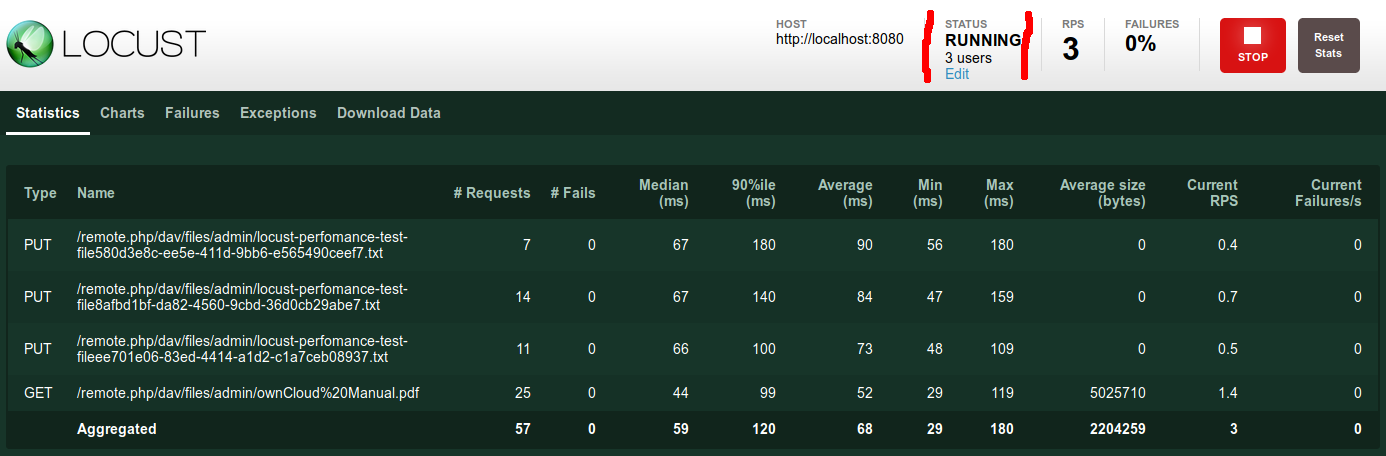
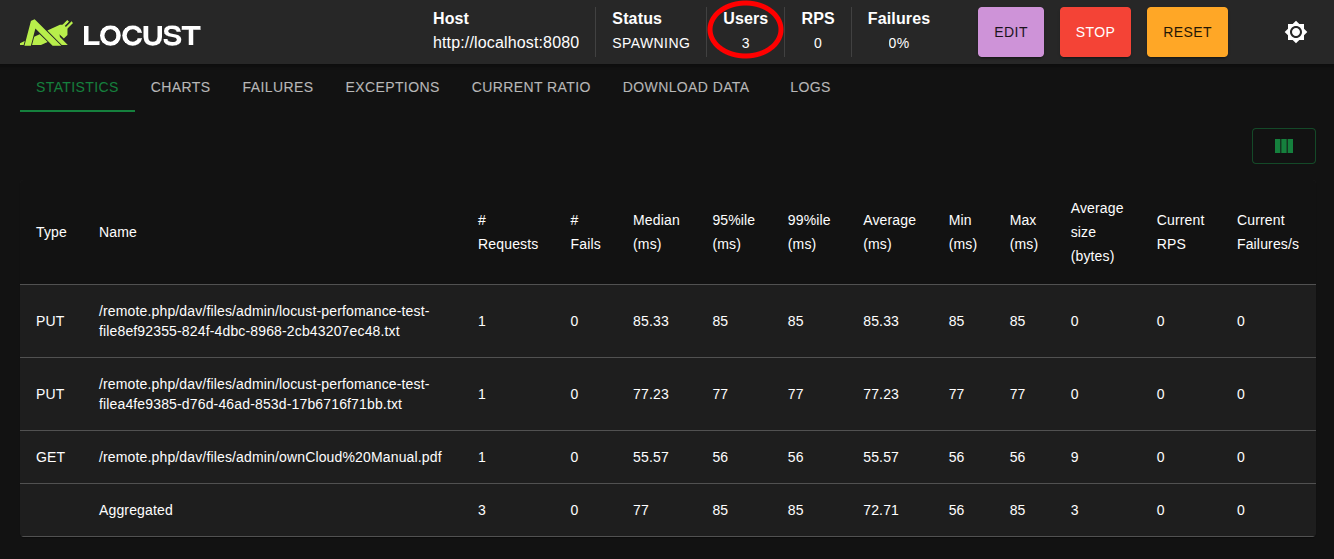
update locust multiple tasks blog (#177)

diff --git a/src/assets/Locust/locust-02.md b/src/assets/Locust/locust-02.md
@@ -24,7 +24,7 @@ You should now be able to run the locust test from the first part via `locust --
 For file-operations, ownCloud uses the [WebDAV](https://en.wikipedia.org/wiki/WebDAV) API. Starting from the locustfile we already have, we create a test for a file download.
 
 ```
-from locust import HttpLocust, TaskSet, task, constant
+from locust import HttpUser, TaskSet, task, constant
 
 class UserBehaviour(TaskSet):
     userName = "admin"
@@ -36,8 +36,8 @@ class UserBehaviour(TaskSet):
             auth=(self.userName, self.userName)
         )
 
-class User(HttpLocust):
-    task_set = UserBehaviour
+class User(HttpUser):
+    tasks = [UserBehaviour]
     wait_time = constant(1)
   ```
 
@@ -51,7 +51,7 @@ Remember: when you change the locustfile, you have to stop and start locust to m
 Every TestSet can have multiple tasks, so adding an upload task should be easy:
 
 ```
-from locust import HttpLocust, TaskSet, task, constant
+from locust import HttpUser, TaskSet, task, constant
 
 class UserBehaviour(TaskSet):
     userName = "admin"
@@ -72,12 +72,12 @@ class UserBehaviour(TaskSet):
             auth=(self.userName, self.userName)
         )
 
-class User(HttpLocust):
-    task_set = UserBehaviour
+class User(HttpUser):
+    tasks = [UserBehaviour]
     wait_time = constant(1)
 ```
 
-Here we have a second task `uploadFile`, it's simply does a `PUT` request with a specific file-name and some data.
+Here we have a second task `uploadFile`, it simply does a `PUT` request with a specific file-name and some data.
 (To be more [DRY](https://en.wikipedia.org/wiki/Don%27t_repeat_yourself), I've placed `davEndpoint` in a variable)
 
 Locust will now run every task the same number of times. But if you run that with enough locust-users (e.g., try 100) you will see the numbers in the `# Fails` column increase
@@ -92,7 +92,7 @@ We have been using one single ownCloud-user `admin` and 100 locust-users. During
 What about not overwriting the same file again and again, but uploading a new one every time?
 
 ```
-from locust import HttpLocust, TaskSet, task, constant
+from locust import HttpUser, TaskSet, task, constant
 import uuid
 
 class UserBehaviour(TaskSet):
@@ -117,8 +117,8 @@ class UserBehaviour(TaskSet):
             auth=(self.userName, self.userName)
         )
 
-class User(HttpLocust):
-    task_set = UserBehaviour
+class User(HttpUser):
+    tasks = [UserBehaviour]
     wait_time = constant(1)
 ```
 
@@ -131,7 +131,7 @@ In the locust UI you should now see one `PUT` request per locust-user and hopefu
 
 Now we run every task equally often. But do users upload files as often as they download them?
 Maybe, but maybe not - it depends on your situation and on what you want to test. Luckily, locust gives you the freedom to choose.
-E.g., if you want to simulate the situation that the download/read operation occurs 3 times more often than an upload/write operation, just add a weight argument to the task
+E.g., if you want to simulate the situation that the download/read operation occurs 3 times more often than an upload/write operation, just add a weight argument to the task.
 
 ```
 ...
